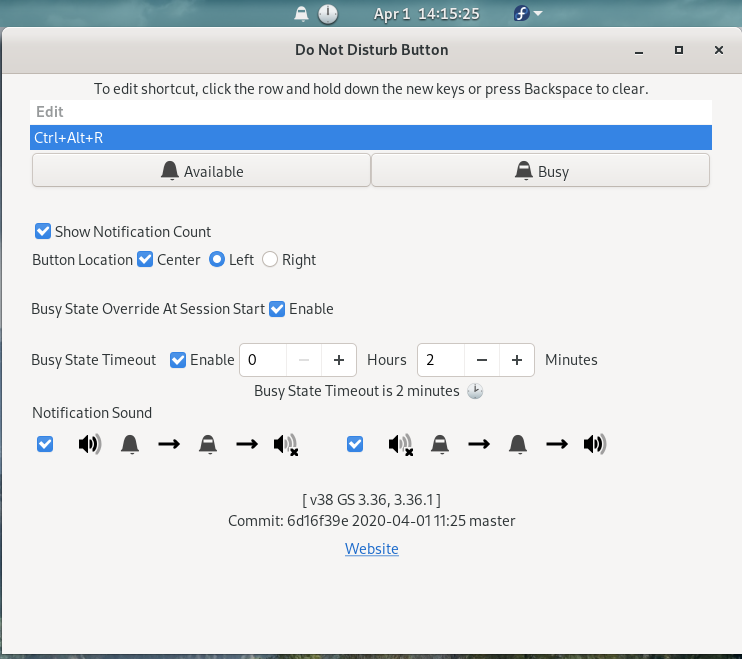
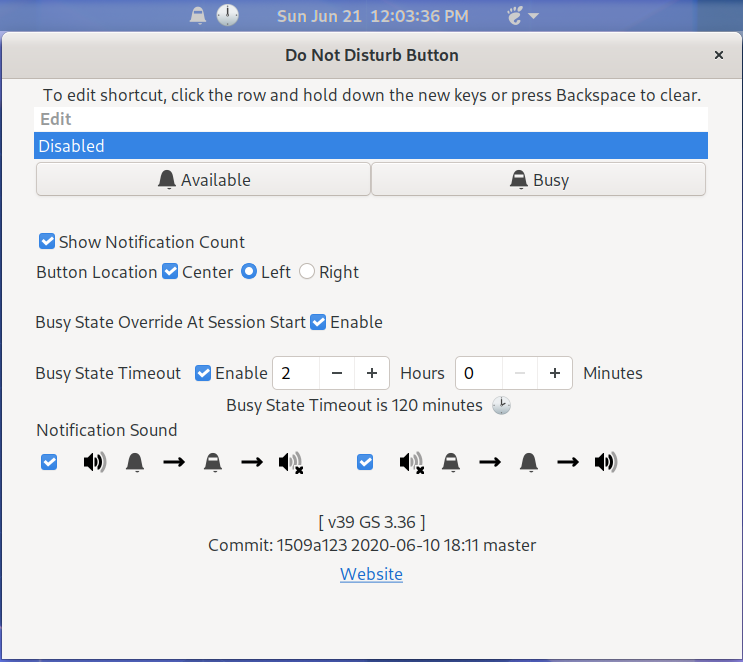
Update for DNDB v39 and GSER v12

diff --git a/GSERfeatures.html b/GSERfeatures.html
@@ -21,6 +21,7 @@ footer { font-family: Verdana, sans-serif; margin:5px; font-size:0.7em; backgrou
 <tr>
 <table width="100%">
 <tr>
+<td align="center"><h5><center><a href="./extension-reloader2.html" target="_top">Versions before V12</a></center></h5></td>
 <td align="center"><h5><center><a href="https://github.com/nls1729/acme-code" target="_top">Github Repository</center></a></h5></td>
 <td align="center"><h5><center><a href="./index.html" target="_top">Github Projects</center></a></h5></td>
 <td align="center"><h5><center><a href="./GSERimage.html" target="Right">Image</a></center></h5></td>
@@ -29,41 +30,40 @@ footer { font-family: Verdana, sans-serif; margin:5px; font-size:0.7em; backgrou
 </table>
 		<h4>Gnome Shell Extension Reloader Features</h4>
        <ul>
-        <li>A panel button is provided to present a menu of extensions installed.</li>
-        <li>The button can be located by preference to left, right, left center or right center of the panel.</li>
-        <li>Selecting an extension in the ERROR state from the menu will reload the extension.</li>
-        <li>Functions under both Wayland and Xorg.</li>
-        <li>Useful for extensions writers to replace restarting the Shell to reload an extension.</li>
-        <li>The scrolling menu is sorted by extension state and extension name.</li>
-       </ul>
+        <li>A panel button is provided to present a menu of installed extensions.</li>
+        <li>The panel button can be located to left, right, left center or right center of the panel.</li>
+        <li>The extension functions under both Wayland and Xorg Gnome Shell sessions.</li>
+        <li>If the session is Wayland a small "w" will be displayed next to the panel button.</li> 
+        <li>The scrolling menu is sorted by extension state numerically and extension name.</li>
+       </ul>       
+              
+       <p>The extension states are:<br><br>
+        0 Unknown, 1 Enabled, 2 Disabled, 3 Error, 4 Out of Date, 5 Downloading, 6 Initialized
+       </p>
+       
+       <p>This extension will reload any installed extension except for the states of Unknown, Out of Date, and Downloading.</p>
+
 		 <p>
-		 </p>              
+		 If an extension is displayed in the Error state and if the error is corrected, this extension does a complete reload of
+		 the extension from disk into memory.  If the extension is in the Enabled, Disabled or Initilalized state,
+		 a session restart is required to complete the loading into memory. The Xorg session is recommended for developing 
+		 extensions since restart with the Alt F2 r sequence can be used.  With Wayland logout/login is required for the
+		 session restart. The bug reports below explain the reason a session restart is required.  	 
+		 </p>
+      
+          
        <p>
-			This extension is intended for use by Gnome Shell Extension writers. It is common practice to restart the Shell during testing to reload
-			an extension with changes made to the extension's code. Wayland does not allow restarting the Shell.  To reload an extension under Wayland
-			a logout and a login is required.  This extension reloads only the selected extension with two mouse clicks saving time for the extension
-			writer.                   
+			This extension is intended mainly for Gnome Shell Extension writers.  If an extension is reloaded after code
+			changes and it returns in the enabled state the code has passed the checks of the code by the extension system.
+			The code is syntactically correct.  The session restart is needed only when operational testing is required.  When
+			updating an extension's code often it is possible to make a few changes, reload to verify the code is syntactically correct
+			repeat the change and verify process until there is the need to verify the operation of code. Simply stated every code change
+			does not require a session restart.
        </p>
-       <p>The extension replaces the need to type "Alt F2 r" to restart the shell during extension development.  This extension will attempt
-          to reload the extension when it is in the error state.  The most common shell restarts for extension writers are when an extension
-          is in the error state.  If all errors in the extension code are corrected the extension will reload successfully.
-          If the reload fails the user is notified and the error is logged.
-       </p>
-       <p>
-          As of version 10 for GS 3.34:<br>
-          When the list of extensions is displayed only extensions in the ERROR state will be high-lighted indicating they can be reloaded.
-          Extensions not in the ERROR state are only loaded from the extension code on disk when a new Gnome Shell session starts.
-       </p>
-       <h3>Limitations</h3>
-       <p> Prior to version 10:<br>
-           This extension will reload an extension from the extension disk files only when the extension is in the error state; othewise,
-           the Gnome Shell session must be restarted with "Alt F2 r" for Xorg or re-login for Wayland.  
-           When not in the error state the extension is reloaded using modules imported when the extension was first initialized.<br><br>
+       <p> 
+           For reference:<br><br>     
            See <a href="https://bugzilla.gnome.org/show_bug.cgi?id=782186" target="_blank">https://bugzilla.gnome.org/show_bug.cgi?id=782186</a><br>
            See <a href="https://bugzilla.gnome.org/show_bug.cgi?id=782187" target="_blank">https://bugzilla.gnome.org/show_bug.cgi?id=782187</a><br><br>
-           As of version 10 for GS 3.34:<br>
-           When the list of extensions is displayed only extensions in the ERROR state will be high-lighted indicating they can be reloaded.
-           Extensions not in the ERROR state are only loaded from the extension code on disk when a new Gnome Shell session starts.
        </p>
 <footer>
 		<br>

diff --git a/GSERfeatures2.html b/GSERfeatures2.html
@@ -1,0 +1,75 @@
+<!DOCTYPE html>
+<html>
+<head>
+<title>Index</title>
+<meta http-equiv="content-type" content="text/html; charset=UTF-8">
+
+<!--[if lt IE 9]>
+<script src="http://html5shiv.googlecode.com/svn/trunk/html5.js">
+</script>
+<![endif]-->
+
+<style>
+html {height:100%;}
+body {font-family: Verdana, sans-serif; font-size:1.05em; background-color:#FFFFE0; height:100%;}
+footer { font-family: Verdana, sans-serif; margin:5px; font-size:0.7em; background-color:gray; font-weight:bold; color:white; width: 100%;}
+</style>
+</head>
+<body>
+<header>
+</header>
+<tr>
+<table width="100%">
+<tr>
+<td align="center"><h5><center><a href="https://github.com/nls1729/acme-code" target="_top">Github Repository</center></a></h5></td>
+<td align="center"><h5><center><a href="./index.html" target="_top">Github Projects</center></a></h5></td>
+<td align="center"><h5><center><a href="./GSERimage2.html" target="Right">Image</a></center></h5></td>
+<td align="center"><h5><center><a href="./GSERlatestupdate.html" target="Right">Latest Update</a></center></h5></td>
+</tr>
+</table>
+		<h4>Gnome Shell Extension Reloader Features</h4>
+       <ul>
+        <li>A panel button is provided to present a menu of extensions installed.</li>
+        <li>The button can be located by preference to left, right, left center or right center of the panel.</li>
+        <li>Selecting an extension in the ERROR state from the menu will reload the extension.</li>
+        <li>Functions under both Wayland and Xorg.</li>
+        <li>Useful for extensions writers to replace restarting the Shell to reload an extension.</li>
+        <li>The scrolling menu is sorted by extension state and extension name.</li>
+       </ul>
+		 <p>
+		 </p>              
+       <p>
+			This extension is intended for use by Gnome Shell Extension writers. It is common practice to restart the Shell during testing to reload
+			an extension with changes made to the extension's code. Wayland does not allow restarting the Shell.  To reload an extension under Wayland
+			a logout and a login is required.  This extension reloads only the selected extension with two mouse clicks saving time for the extension
+			writer.                   
+       </p>
+       <p>The extension replaces the need to type "Alt F2 r" to restart the shell during extension development.  This extension will attempt
+          to reload the extension when it is in the error state.  The most common shell restarts for extension writers are when an extension
+          is in the error state.  If all errors in the extension code are corrected the extension will reload successfully.
+          If the reload fails the user is notified and the error is logged.
+       </p>
+       <p>
+          As of version 10 for GS 3.34:<br>
+          When the list of extensions is displayed only extensions in the ERROR state will be high-lighted indicating they can be reloaded.
+          Extensions not in the ERROR state are only loaded from the extension code on disk when a new Gnome Shell session starts.
+       </p>
+       <h3>Limitations</h3>
+       <p> Prior to version 10:<br>
+           This extension will reload an extension from the extension disk files only when the extension is in the error state; othewise,
+           the Gnome Shell session must be restarted with "Alt F2 r" for Xorg or re-login for Wayland.  
+           When not in the error state the extension is reloaded using modules imported when the extension was first initialized.<br><br>
+           See <a href="https://bugzilla.gnome.org/show_bug.cgi?id=782186" target="_blank">https://bugzilla.gnome.org/show_bug.cgi?id=782186</a><br>
+           See <a href="https://bugzilla.gnome.org/show_bug.cgi?id=782187" target="_blank">https://bugzilla.gnome.org/show_bug.cgi?id=782187</a><br><br>
+           As of version 10 for GS 3.34:<br>
+           When the list of extensions is displayed only extensions in the ERROR state will be high-lighted indicating they can be reloaded.
+           Extensions not in the ERROR state are only loaded from the extension code on disk when a new Gnome Shell session starts.
+       </p>
+<footer>
+		<br>
+		<center><a href="mailto:nls1729@gmail.com"><img src="images/mail-mark-unread-2.png" width="32" height="32" alt="">nls1729@gmail.com</a></center>
+		<br>
+</footer>
+
+</body>
+</html>

diff --git a/GSERlatestupdate.html b/GSERlatestupdate.html
@@ -20,6 +20,17 @@ Download the zip-file for the Gnome Shell Extension Reloader extension from the 
 </a>
 </h5>
 
+<h4>Version 12 GS 3.36</h4>
+<p>
+Added additional visual indicatiors and restored the ability to reload extensions not in the error state.
+The extension's panel button indicates when the current session is Wayland.  When an extension is reloaded
+the current session must be restarted to load the changes into memory (unless the extension changes from 
+the ERROR state to the ENABLED state).  If the current session is an Xorg session the Alt F2 r sequence can
+be used to perform the restart.  If the extension is in the DISABLED state or not enabled in the INITIALIZED state
+it is set to enabled before the reload.
+</p>
+
+
 <h4>Version 11 GS 3.36</h4>
 <p>
 Updated for Gnome Shell version 3.36.

diff --git a/GSERimage2.html b/GSERimage2.html
@@ -5,7 +5,7 @@
 	<meta http-equiv="content-type" content="text/html; charset=UTF-8">
 	<style>
 	html {height:100%;}
-		body {font-family: Verdana, sans-serif; font-size:1.0em; background-color:#FFFFE0; height:100%;}
+		body {font-family: Verdana, sans-serif; font-size:1.03em; background-color:#FFFFE0; height:96%;}
 		iframe {border:rgba(0,0,0,0.0); height:100%;}
 	</style>
 
@@ -15,7 +15,6 @@
 <![endif]-->
 </head>
 <body>
-<iframe name="Left"  src="./GSERfeatures.html"style="float:left;  width:55%; height:100%"></iframe>
-<iframe name="Right" src="./GSERimage.html"  style="float:right; width:45%; height:100%"></iframe>
+<img src="./images/reloader.jpg" alt="IMAGE"  border="2" valigh="top"  halign="center">
 </body>
 </html>

diff --git a/donotdisturb_button_zip.html b/donotdisturb_button_zip.html
@@ -23,6 +23,8 @@
 <table>
 <tr><td><h3>Do Not Disturb Button</h3></td><td>&nbsp&nbsp&nbsp</td><td><h3>Gnome Shell Version(s)</h3></td></tr>
 
+<tr><td><a href="https://extensions.gnome.org/review/download/17409.shell-extension.zip">v39</a></td><td>&nbsp&nbsp&nbsp</td><td><strong>3.36</strong></td></tr>
+
 <tr><td><a href="https://extensions.gnome.org/review/download/15216.shell-extension.zip">v38</a></td><td>&nbsp&nbsp&nbsp</td><td><strong>3.36 3.36.1</strong></td></tr>
 
 <tr><td><a href="https://extensions.gnome.org/review/download/15030.shell-extension.zip">v36</a></td><td>&nbsp&nbsp&nbsp</td><td><strong>3.36</strong></td></tr>

diff --git a/extension-reloader2.html b/extension-reloader2.html
@@ -15,7 +15,7 @@
 <![endif]-->
 </head>
 <body>
-<iframe name="Left"  src="./GSERfeatures.html"style="float:left;  width:55%; height:100%"></iframe>
-<iframe name="Right" src="./GSERimage.html"  style="float:right; width:45%; height:100%"></iframe>
+<iframe name="Left"  src="./GSERfeatures2.html"style="float:left;  width:55%; height:98%"></iframe>
+<iframe name="Right" src="./GSERimage2.html"  style="float:right; width:45%; height:98%"></iframe>
 </body>
 </html>

diff --git a/GSERimage.html b/GSERimage.html
@@ -15,6 +15,11 @@
 <![endif]-->
 </head>
 <body>
-<img src="./images/reloader.jpg" alt="IMAGE"  border="2" valigh="top"  halign="center">
+<header>
+	<div><center><img src="./images/GSERtop.jpg" alt="IMAGE"  border="2" valigh="top"  halign="center"></center></div>
+</header>
+<footer>
+	<div><center><img src="./images/GSERbottom.jpg" alt="IMAGE"  border="2" valigh="top"  halign="center"></center></div>
+</footer>
 </body>
 </html>

diff --git a/DNDlatestupdate_332.html b/DNDlatestupdate_332.html
@@ -20,6 +20,11 @@ Download the zip-file for the Do Not Disturb Button extension from the Gnome She
 </a>
 </h5>
 
+<h4>Update Version 39 GS 3.36</h4>
+<p>
+Removed uneeded import in prefs.js which caused prefs to not be displayed for Ubuntu 2020.4.
+</p>
+
 <h4>Update Version 38 GS 3.36 and 3.36.1</h4>
 <p>
 Updated to use gnome-extensions tool to display preferences for a single extension..<br>
